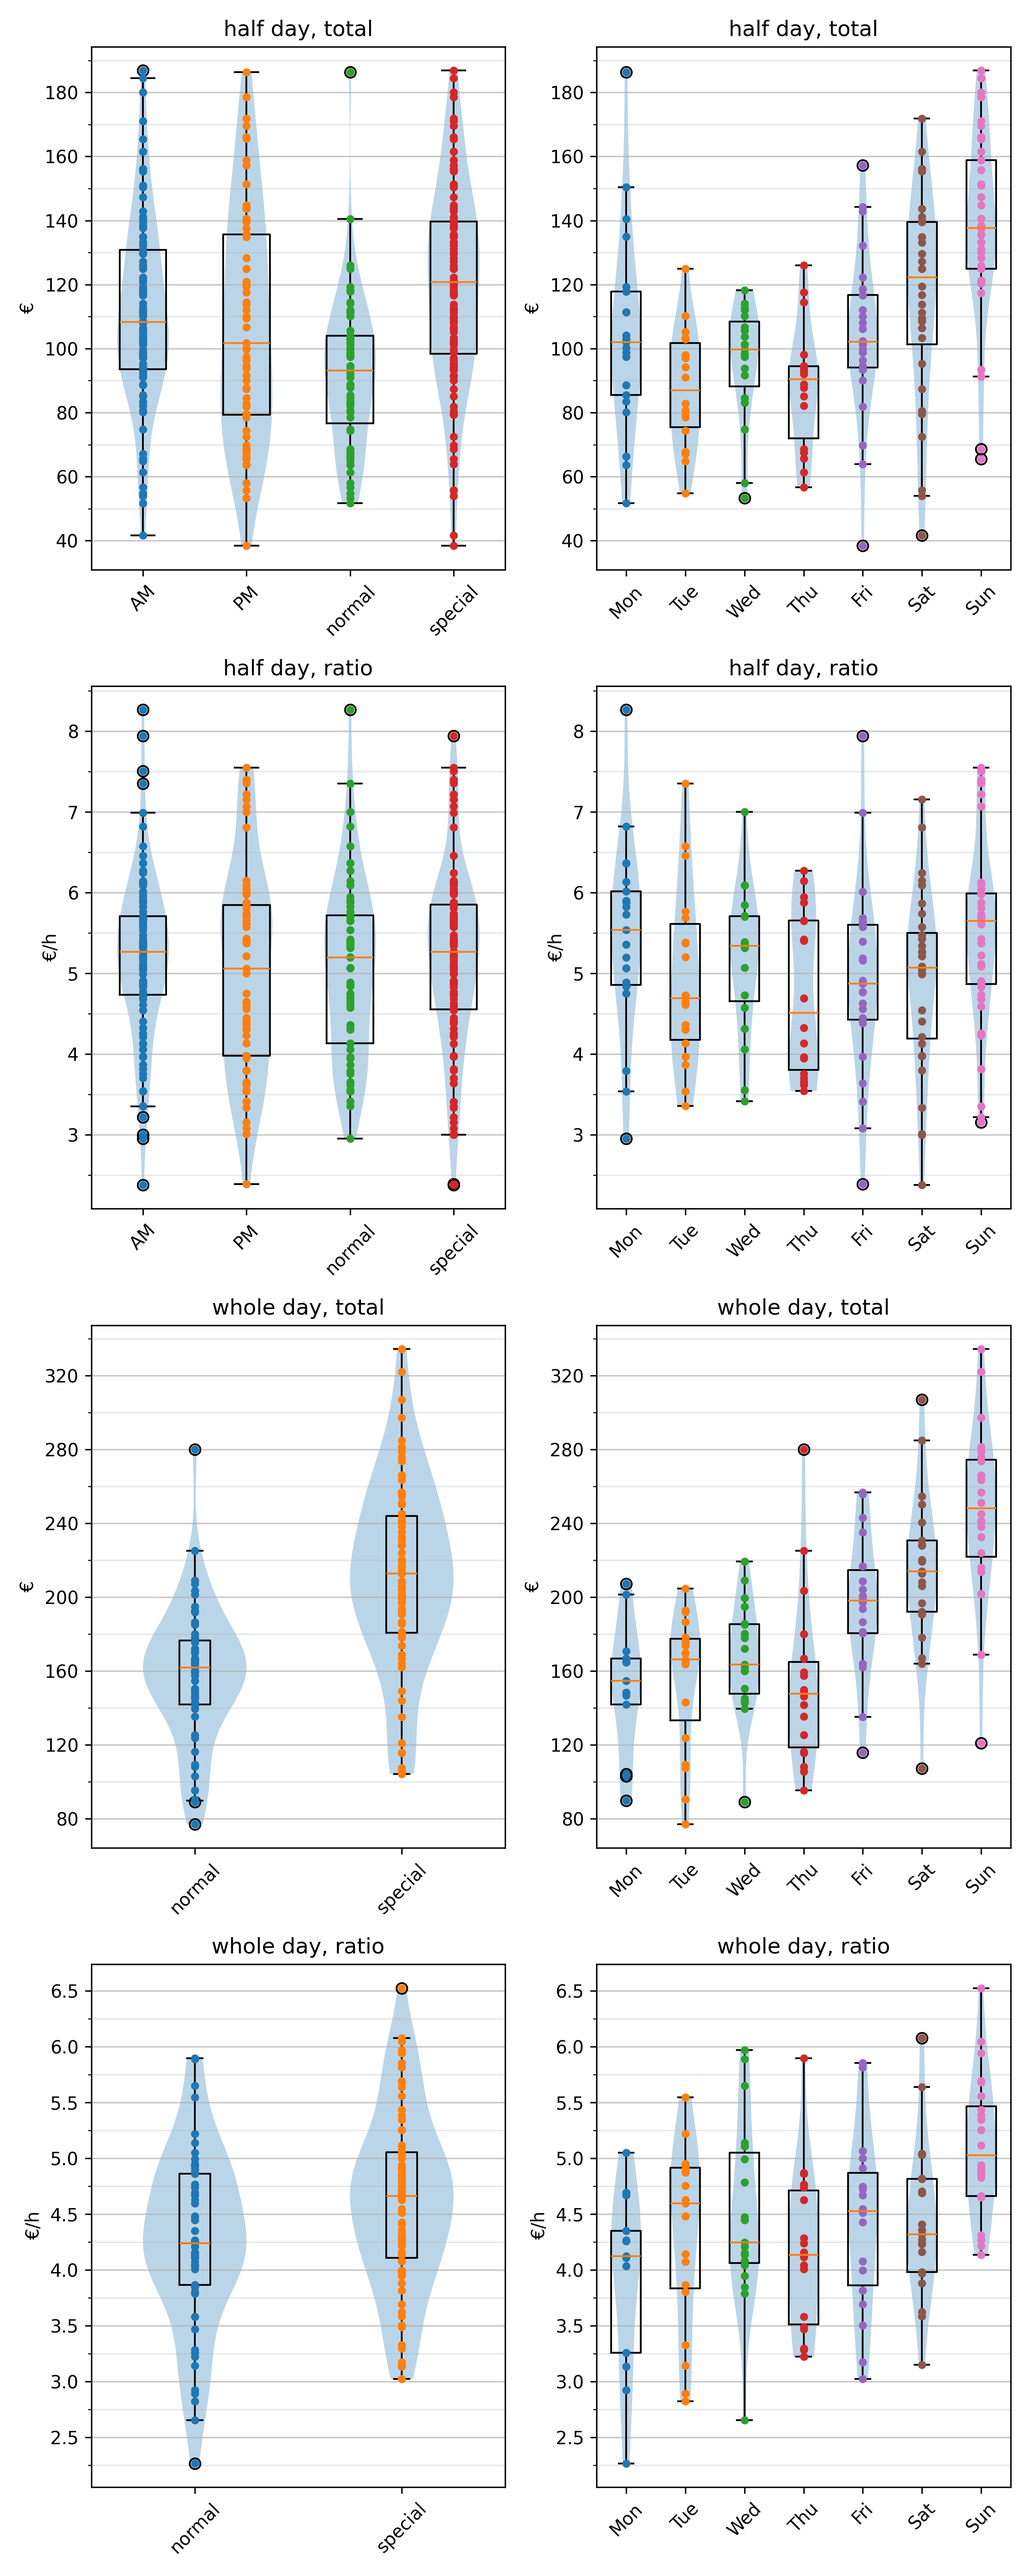
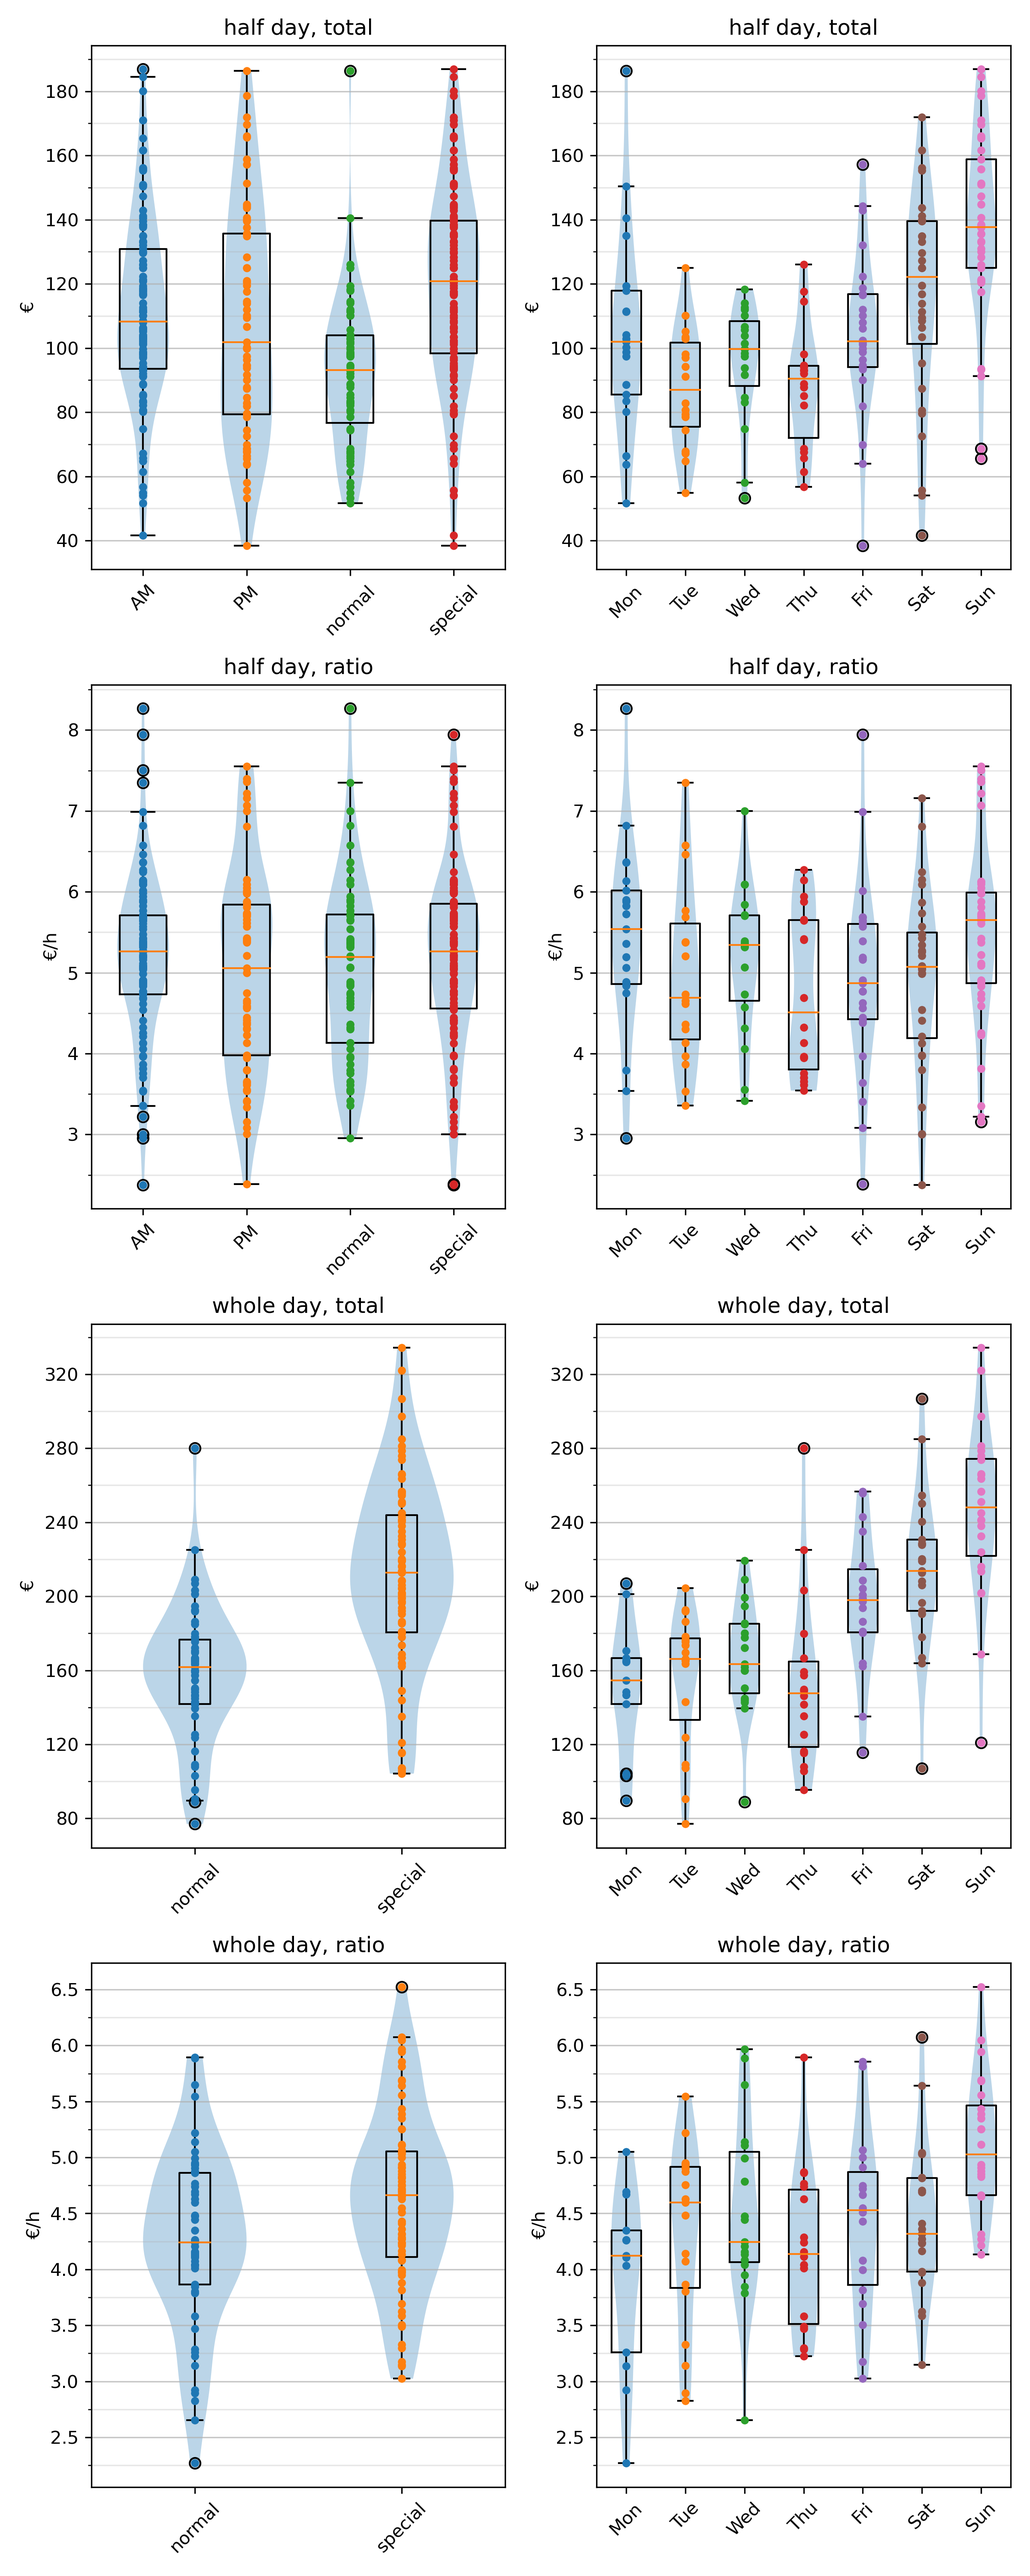
update plot

diff --git a/README.md b/README.md
@@ -1,4 +1,4 @@
-last update: 08.08.2024, Thursday, time: 19:56
+last update: 08.08.2024, Thursday, time: 20:01
 # Statistic  
 Special: Holiday in Germany NRW and Friday till Sunday  
 Currency is in euro, ratio is in €/h  
